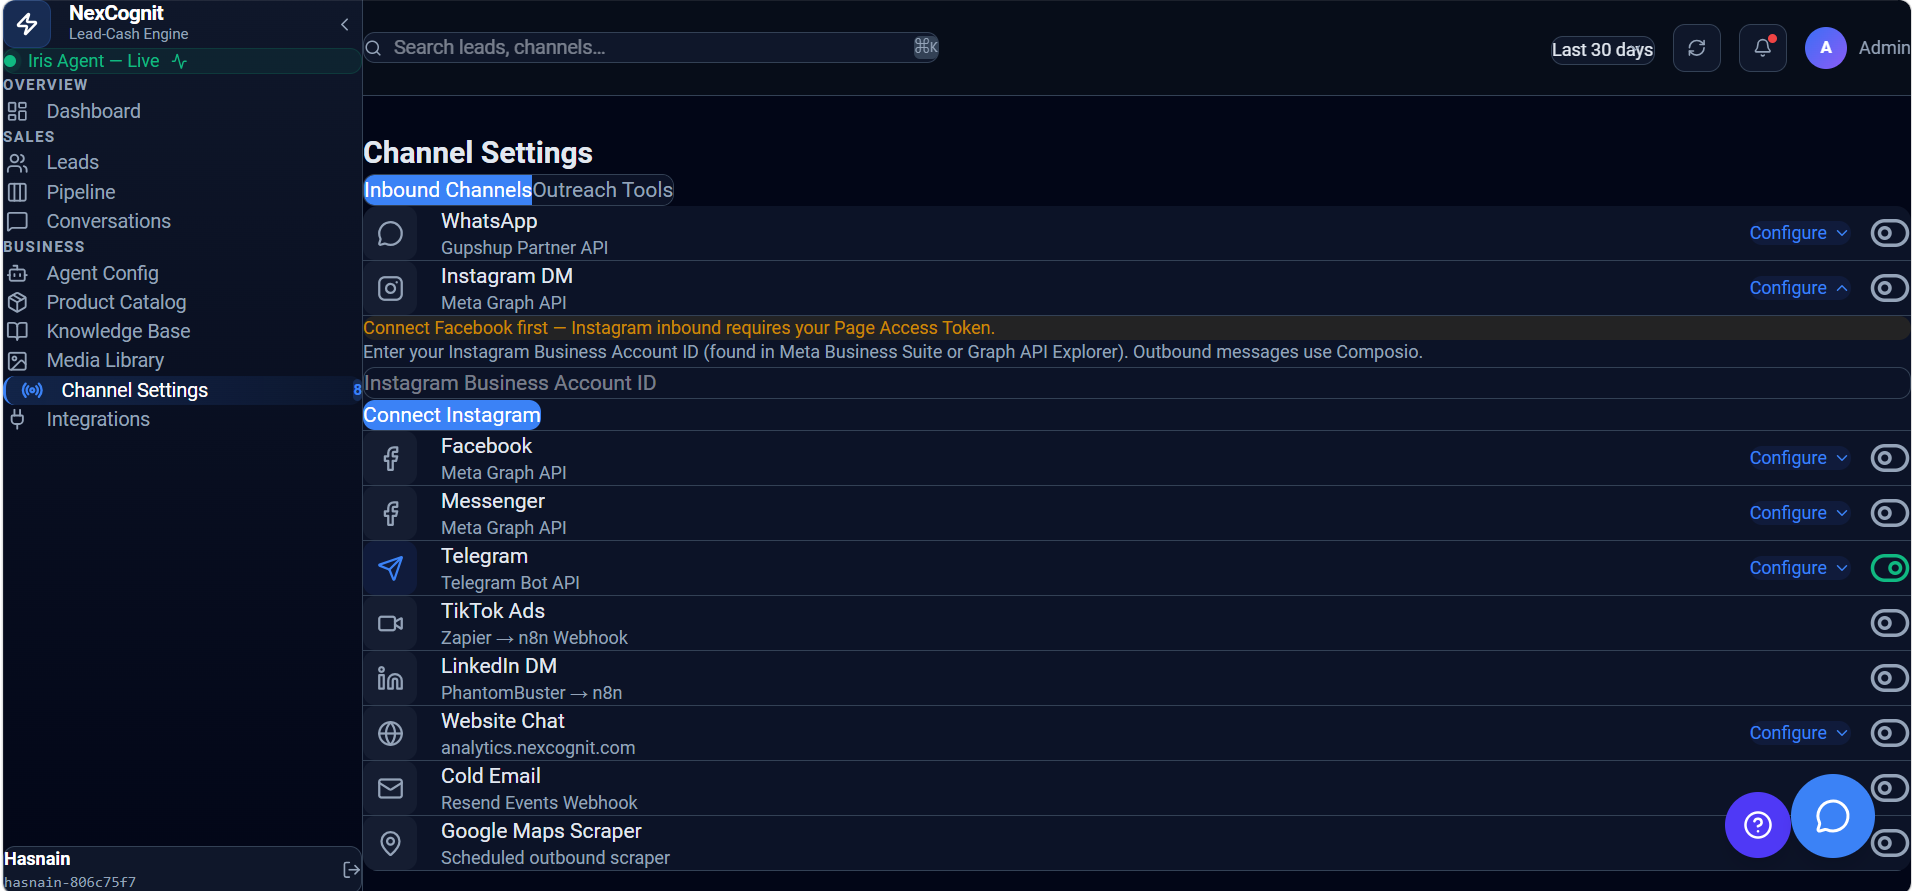
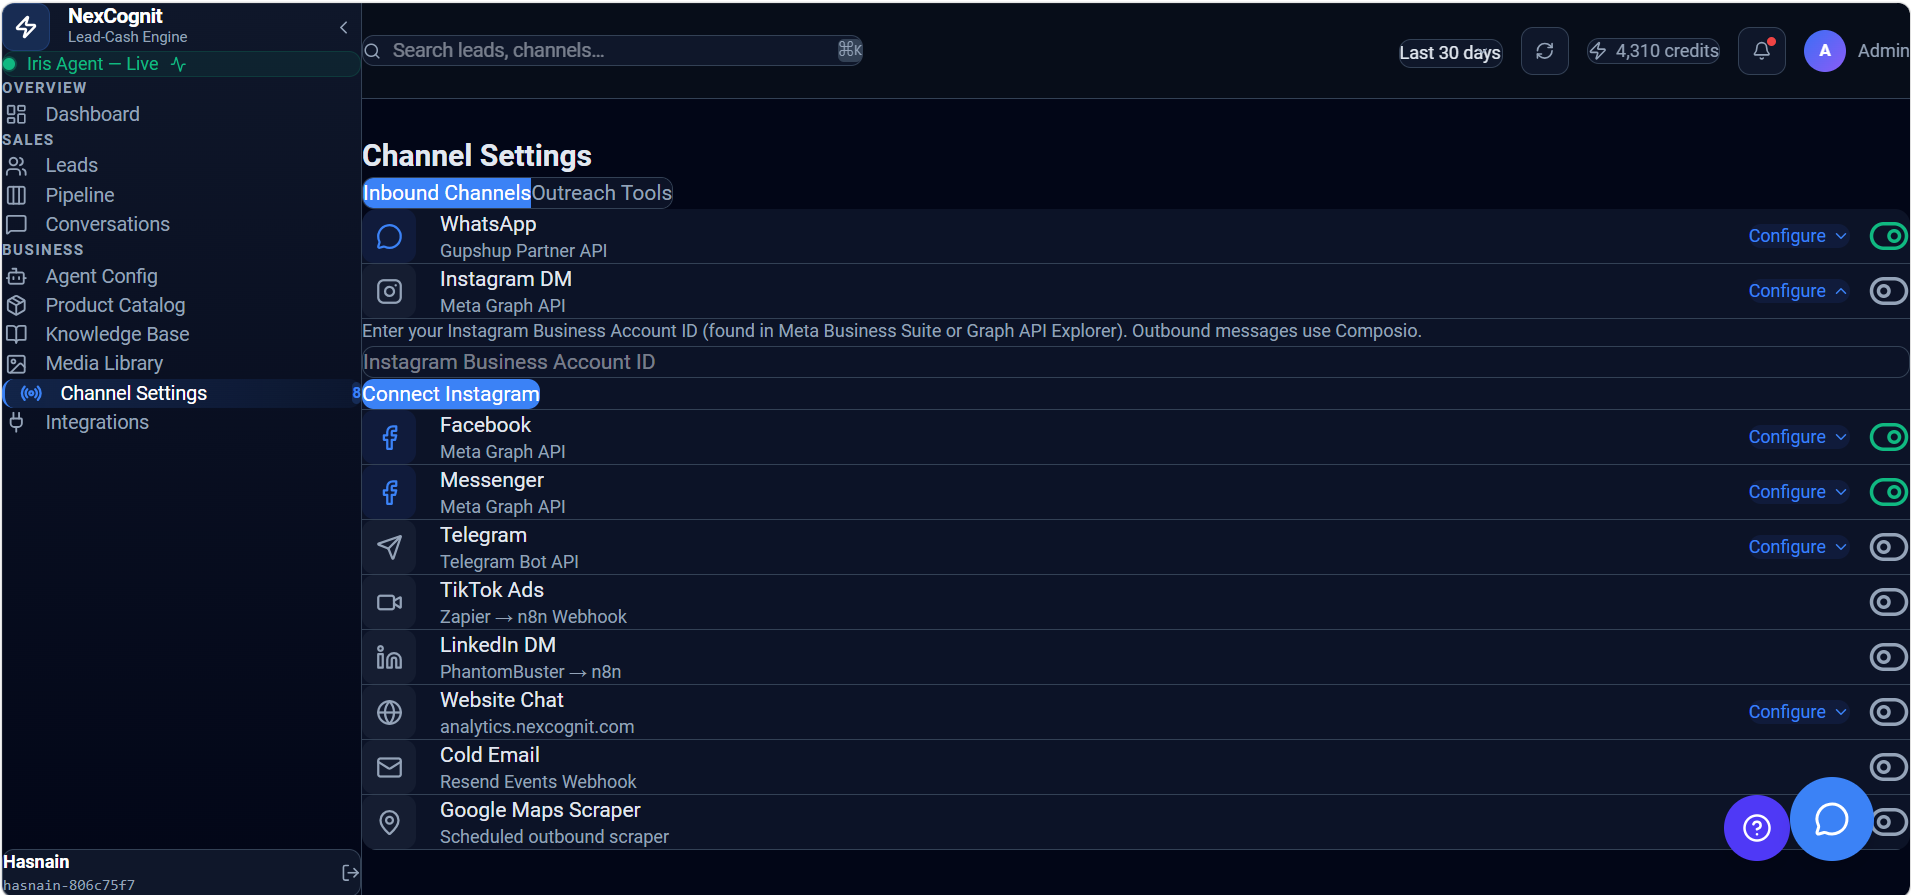
Update styles and homepage

diff --git a/pages/channels/instagram.html b/pages/channels/instagram.html
@@ -56,6 +56,9 @@
             <a class="nav-link" href="instagram.html#webhook-url">Add Webhook URL</a>
             <a class="nav-link" href="instagram.html#business-account-id">Copy Business Account ID</a>
             <a class="nav-link" href="instagram.html#connect-nexcognit">Connect to NexCognit</a>
+            <a class="nav-link" href="instagram.html#verify-connected-status">Verify Connected Status</a>
+            <a class="nav-link" href="instagram.html#connect-instagram-dm">Connect Instagram DM (Outbound)</a>
+            <a class="nav-link" href="instagram.html#outbound-connected">Outbound Connected</a>
           </div>
         </div>
       </nav>
@@ -209,6 +212,51 @@
           style="max-width: 100%; border: 1px solid #dfe7f3; border-radius: 12px; margin-top: 12px;" />
       </section>
 
+      <section class="content-section" id="verify-connected-status">
+        <h2>Step 12 — Verify Connected Status</h2>
+        <p>Return to the Instagram channel settings in NexCognit and confirm that the status shows Connected with the
+          toggle switched on. This confirms that inbound Instagram messages can now reach NexCognit.</p>
+        <img src="../../screenshots/channels/instagram/12_verify_connected_status.PNG"
+          alt="Verifying that the Instagram channel status shows Connected"
+          style="max-width: 100%; border: 1px solid #dfe7f3; border-radius: 12px; margin-top: 12px;" />
+      </section>
+
+      <section class="content-section" id="connect-instagram-dm">
+        <h2>Step 13 — Connect Instagram DM from Integrations</h2>
+        <p>Instagram also needs a separate outbound connection so NexCognit can send replies back through Instagram
+          Direct Messages. In the NexCognit sidebar, open Integrations, locate Instagram DM, and click Connect to begin
+          this second connection.</p>
+        <img src="../../screenshots/channels/instagram/13_open_integrations_connect_instagram_dm.PNG"
+          alt="Opening Integrations and connecting Instagram DM"
+          style="max-width: 100%; border: 1px solid #dfe7f3; border-radius: 12px; margin-top: 12px;" />
+      </section>
+
+      <section class="content-section">
+        <h2>Step 14 — Sign In and Allow Access via Composio</h2>
+        <p>Composio will prompt you to sign in to your Instagram/Facebook account and request permission to access it.
+          Review the request and allow access to continue.</p>
+        <img src="../../screenshots/channels/instagram/14_composio_login_and_allow_access.PNG"
+          alt="Signing in and allowing access through Composio"
+          style="max-width: 100%; border: 1px solid #dfe7f3; border-radius: 12px; margin-top: 12px;" />
+      </section>
+
+      <section class="content-section">
+        <h2>Step 15 — Composio Confirms the Connection</h2>
+        <p>Once access is granted, Composio displays a confirmation that the account was connected successfully.</p>
+        <img src="../../screenshots/channels/instagram/15_composio_connected_successfully.PNG"
+          alt="Composio confirming a successful connection"
+          style="max-width: 100%; border: 1px solid #dfe7f3; border-radius: 12px; margin-top: 12px;" />
+      </section>
+
+      <section class="content-section" id="outbound-connected">
+        <h2>Step 16 — Confirm Instagram DM Shows as Connected</h2>
+        <p>Return to the Integrations page in NexCognit and confirm that Instagram DM now also shows a Connected status.
+          With both inbound and outbound connected, Instagram is fully set up and ready to test.</p>
+        <img src="../../screenshots/channels/instagram/16_integrations_instagram_dm_connected.PNG"
+          alt="Confirming Instagram DM shows as connected on the Integrations page"
+          style="max-width: 100%; border: 1px solid #dfe7f3; border-radius: 12px; margin-top: 12px;" />
+      </section>
+
       <section class="content-section">
         <h2>How Instagram works after setup</h2>
         <p>Once the Instagram channel is connected, customers can start conversations through Instagram direct messages
@@ -224,6 +272,9 @@
           <li>Make sure the Instagram Business Account is linked to the correct Facebook Page.</li>
           <li>If the channel does not connect, confirm that the Business Account ID was pasted correctly and that the
             required permissions are granted.</li>
+          <li>Instagram requires both an inbound connection (Steps 1–12) and an outbound connection through
+            Integrations (Steps 13–16). If customers can message in but NexCognit cannot reply, confirm the outbound
+            Instagram DM connection in Integrations.</li>
         </ul>
       </section>
     </main>
